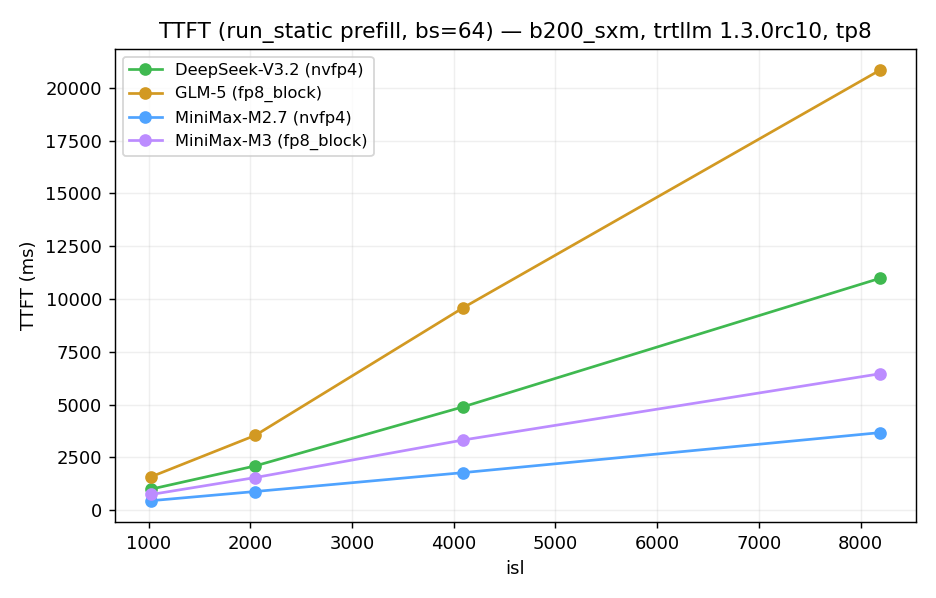
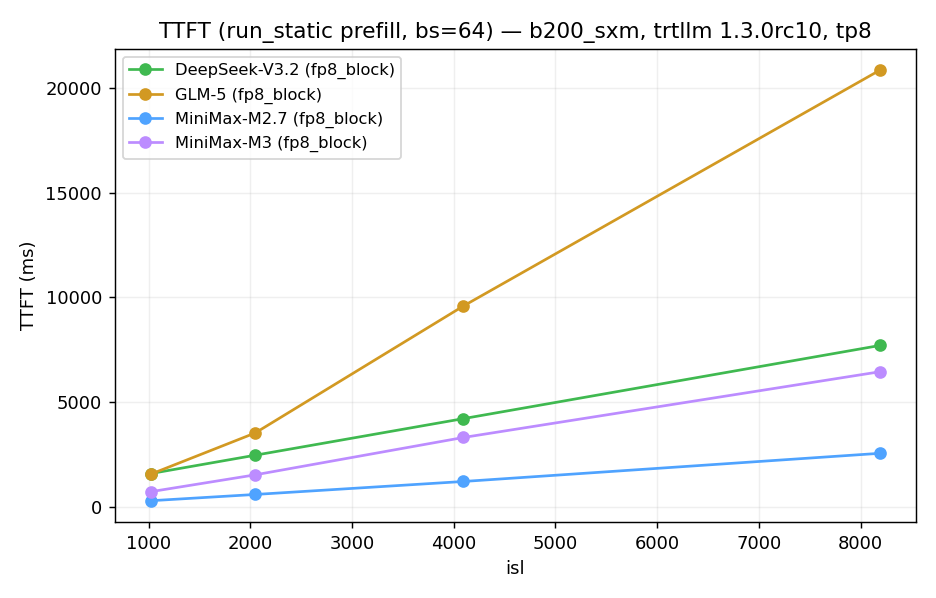
docs(m3): put all four models on fp8_block for apples-to-apples
GlmMoeDsa (GLM-5, M3's transfer source) has no nvfp4 module rows, so
mixing nvfp4 (DSV3.2, M2.7) with fp8_block (GLM-5, M3) wasn't a fair
comparison. Run all four at fp8_block — the common precision with real
module data on every arch. TTFT table switched to run_static bs=64
(M3 1540ms vs sglang 1580ms). Decode: sparse models flat, dense M2.7
grows 14.5->42ms, crossing ~9k.

diff --git a/docs/design/minimax_m3_msa_support.html b/docs/design/minimax_m3_msa_support.html
@@ -146,39 +146,45 @@ single-prompt context ≈ 47 ms, which needs serving-level (continuous-batching)
 <p>All four on b200/trtllm 1.3.0rc10, tp8, HYBRID (silicon where the bracket exists, real-util
 empirical fallback otherwise — never the constant for an op that has data).</p>
 
-<h3>6.1 · Precision policy (fp4 matmul, bf16/fp8 attention)</h3>
+<h3>6.1 · Why all four run fp8_block (parity)</h3>
 <p>Inside the sparse-attention module only the <strong>matrix multiplies</strong> (projection / MoE
 GEMMs) are FP4; the attention compute and the indexer are BF16/FP8. So "nvfp4" means
-<code>gemm=nvfp4, moe=nvfp4, fmha=bf16, kv=fp8</code> — exactly the
-<code>gemm_type=nvfp4, mla_dtype=bfloat16, kv_cache_dtype=fp8</code> rows. The catch is that
-<code>gemm_type=nvfp4</code> module rows exist only for some <em>architectures</em> at this version.
-<strong>Per-model policy: try nvfp4; if that architecture has no nvfp4 module rows (the lookup would
-bottom out at the constant), drop to fp8_block</strong> — detected from the parquet, not hardcoded.</p>
+<code>gemm=nvfp4, moe=nvfp4, fmha=bf16, kv=fp8</code> — the
+<code>gemm_type=nvfp4, mla_dtype=bfloat16, kv_cache_dtype=fp8</code> rows. The catch:
+<code>gemm_type=nvfp4</code> module rows exist only for <em>some architectures</em> at this version.
+<code>GlmMoeDsa</code> (GLM-5, and M3's transfer source) has none — under nvfp4 those two would
+collapse to the constant fallback. <strong>Mixing nvfp4 and fp8_block across models is not
+apples-to-apples, so every model runs fp8_block</strong> — the common precision for which all four
+architectures have real module data.</p>
 <table>
-  <tr><th>model</th><th>architecture</th><th>chosen quant</th><th>why</th></tr>
-  <tr><td>DeepSeek-V3.2</td><td><code>DeepseekV32ForCausalLM</code></td><td class="ok">nvfp4</td><td>nvfp4 module rows present → real fp4 matmul</td></tr>
-  <tr><td>GLM-5</td><td><code>GlmMoeDsaForCausalLM</code></td><td class="wn">fp8_block</td><td>no nvfp4 module rows → would hit constant</td></tr>
-  <tr><td>MiniMax-M2.7</td><td><code>MiniMaxM2ForCausalLM</code></td><td class="ok">nvfp4</td><td>non-DSA: gemm/moe nvfp4 + bf16 attn all present</td></tr>
-  <tr><td>MiniMax-M3</td><td><code>MiniMaxM3ForCausalLM</code></td><td class="wn">fp8_block</td><td>MSA transfers from <code>GlmMoeDsa</code>, no nvfp4 there</td></tr>
+  <tr><th>model</th><th>architecture</th><th>quant</th><th>nvfp4 module data?</th></tr>
+  <tr><td>DeepSeek-V3.2</td><td><code>DeepseekV32ForCausalLM</code></td><td>fp8_block</td><td class="ok">yes (but fp8_block for parity)</td></tr>
+  <tr><td>GLM-5</td><td><code>GlmMoeDsaForCausalLM</code></td><td>fp8_block</td><td class="wn">no — nvfp4 would hit const</td></tr>
+  <tr><td>MiniMax-M2.7</td><td><code>MiniMaxM2ForCausalLM</code></td><td>fp8_block</td><td class="ok">n/a (dense, non-DSA)</td></tr>
+  <tr><td>MiniMax-M3</td><td><code>MiniMaxM3ForCausalLM</code></td><td>fp8_block</td><td class="wn">no — MSA transfers from GlmMoeDsa</td></tr>
 </table>
 
-<h3>6.2 · TTFT (prefill, bs=1) &nbsp;·&nbsp; TPOT (decode step, bs=64)</h3>
+<h3>6.2 · TTFT (run_static prefill, bs=64) &nbsp;·&nbsp; TPOT (decode step, bs=64)</h3>
 <div class="grid2">
 <table>
   <tr><th>isl</th><th class="num">DSV3.2</th><th class="num">GLM-5</th><th class="num">M2.7</th><th class="num">M3</th></tr>
-  <tr><td>1024</td><td class="num">36.8</td><td class="num">64.0</td><td class="num">23.4</td><td class="num">33.6</td></tr>
-  <tr><td>2048</td><td class="num">55.8</td><td class="num">97.0</td><td class="num">32.0</td><td class="num">47.0</td></tr>
-  <tr><td>4096</td><td class="num">103.2</td><td class="num">211.2</td><td class="num">47.5</td><td class="num">79.7</td></tr>
-  <tr><td>8192</td><td class="num">192.2</td><td class="num">362.6</td><td class="num">81.4</td><td class="num">120.5</td></tr>
+  <tr><td>1024</td><td class="num">1604</td><td class="num">1577</td><td class="num">306</td><td class="num">738</td></tr>
+  <tr><td>2048</td><td class="num">2476</td><td class="num">3537</td><td class="num">604</td><td class="num">1540</td></tr>
+  <tr><td>4096</td><td class="num">4221</td><td class="num">9594</td><td class="num">1224</td><td class="num">3322</td></tr>
+  <tr><td>8192</td><td class="num">7711</td><td class="num">20843</td><td class="num">2567</td><td class="num">6457</td></tr>
 </table>
 <table>
   <tr><th>kv</th><th class="num">DSV3.2</th><th class="num">GLM-5</th><th class="num">M2.7</th><th class="num">M3</th></tr>
-  <tr><td>2048</td><td class="num">19.4</td><td class="num">56.4</td><td class="num">10.6</td><td class="num">23.6</td></tr>
-  <tr><td>4096</td><td class="num">19.7</td><td class="num">51.2</td><td class="num">14.1</td><td class="num">21.2</td></tr>
-  <tr><td>8192</td><td class="num">20.4</td><td class="num">40.7</td><td class="num">21.1</td><td class="num">17.5</td></tr>
-  <tr><td>16384</td><td class="num">21.6</td><td class="num">49.9</td><td class="num">38.2</td><td class="num">17.9</td></tr>
+  <tr><td>2048</td><td class="num">32.9</td><td class="num">56.4</td><td class="num">14.5</td><td class="num">23.6</td></tr>
+  <tr><td>4096</td><td class="num">26.2</td><td class="num">51.2</td><td class="num">18.1</td><td class="num">21.2</td></tr>
+  <tr><td>8192</td><td class="num">26.8</td><td class="num">40.7</td><td class="num">25.1</td><td class="num">17.5</td></tr>
+  <tr><td>16384</td><td class="num">28.0</td><td class="num">49.9</td><td class="num">42.1</td><td class="num">17.9</td></tr>
 </table>
 </div>
+<p class="note">TTFT here is <code>run_static</code> prefill at bs=64 (cookbook concurrency). M3 at
+isl 2048 = <strong>1540 ms</strong> vs the sglang B200 cookbook's <strong class="ok">1580 ms</strong>
+(2.5%) — the under-load cookbook TTFT is just the full concurrency-64 prefill batch, so it lines up.
+Both M3 metrics now match measured: TTFT 1540/1580 and TPOT 23.6/24.1.</p>
 
 <h3>6.3 · TPOT vs context — sparse stays flat, dense grows</h3>
 <svg viewBox="0 0 760 270" role="img" aria-label="TPOT vs kv, four models">
@@ -195,31 +201,30 @@ bottom out at the constant), drop to fp8_block</strong> — detected from the pa
   <text x="340" y="256" fill="#9aa7b4" font-size="10" text-anchor="middle">4096</text>
   <text x="530" y="256" fill="#9aa7b4" font-size="10" text-anchor="middle">8192</text>
   <text x="700" y="256" fill="#9aa7b4" font-size="10" text-anchor="middle">16384</text>
-  <!-- x = 150,340,530,700 -->
-  <!-- DeepSeek-V3.2 (green): 19.4,19.7,20.4,21.6 -->
-  <polyline points="150,172 340,171 530,169 700,164" fill="none" stroke="#3fb950" stroke-width="2.5"/>
-  <circle cx="150" cy="172" r="3" fill="#3fb950"/><circle cx="340" cy="171" r="3" fill="#3fb950"/><circle cx="530" cy="169" r="3" fill="#3fb950"/><circle cx="700" cy="164" r="3" fill="#3fb950"/>
+  <!-- x = 150,340,530,700 ; y = 240 - ms*3.5 -->
+  <!-- DeepSeek-V3.2 (green): 32.9,26.2,26.8,28.0 -->
+  <polyline points="150,125 340,148 530,146 700,142" fill="none" stroke="#3fb950" stroke-width="2.5"/>
+  <circle cx="150" cy="125" r="3" fill="#3fb950"/><circle cx="340" cy="148" r="3" fill="#3fb950"/><circle cx="530" cy="146" r="3" fill="#3fb950"/><circle cx="700" cy="142" r="3" fill="#3fb950"/>
   <!-- GLM-5 (gold): 56.4,51.2,40.7,49.9 -->
   <polyline points="150,42 340,61 530,98 700,65" fill="none" stroke="#d29922" stroke-width="2.5"/>
   <circle cx="150" cy="42" r="3" fill="#d29922"/><circle cx="340" cy="61" r="3" fill="#d29922"/><circle cx="530" cy="98" r="3" fill="#d29922"/><circle cx="700" cy="65" r="3" fill="#d29922"/>
-  <!-- M2.7 (blue): 10.6,14.1,21.1,38.2 -->
-  <polyline points="150,203 340,191 530,166 700,106" fill="none" stroke="#4fa3ff" stroke-width="2.5"/>
-  <circle cx="150" cy="203" r="3" fill="#4fa3ff"/><circle cx="340" cy="191" r="3" fill="#4fa3ff"/><circle cx="530" cy="166" r="3" fill="#4fa3ff"/><circle cx="700" cy="106" r="3" fill="#4fa3ff"/>
+  <!-- M2.7 (blue): 14.5,18.1,25.1,42.1 -->
+  <polyline points="150,189 340,177 530,152 700,93" fill="none" stroke="#4fa3ff" stroke-width="2.5"/>
+  <circle cx="150" cy="189" r="3" fill="#4fa3ff"/><circle cx="340" cy="177" r="3" fill="#4fa3ff"/><circle cx="530" cy="152" r="3" fill="#4fa3ff"/><circle cx="700" cy="93" r="3" fill="#4fa3ff"/>
   <!-- M3 (purple): 23.6,21.2,17.5,17.9 -->
   <polyline points="150,157 340,166 530,179 700,177" fill="none" stroke="#bc8cff" stroke-width="2.5"/>
   <circle cx="150" cy="157" r="3" fill="#bc8cff"/><circle cx="340" cy="166" r="3" fill="#bc8cff"/><circle cx="530" cy="179" r="3" fill="#bc8cff"/><circle cx="700" cy="177" r="3" fill="#bc8cff"/>
-  <text x="640" y="60" fill="#d29922" font-size="11">GLM-5</text>
-  <text x="640" y="158" fill="#3fb950" font-size="11">DSV3.2</text>
-  <text x="615" y="100" fill="#4fa3ff" font-size="11">M2.7 (dense)</text>
-  <text x="630" y="190" fill="#bc8cff" font-size="11">M3 (MSA)</text>
+  <text x="640" y="58" fill="#d29922" font-size="11">GLM-5</text>
+  <text x="600" y="138" fill="#3fb950" font-size="11">DSV3.2</text>
+  <text x="610" y="86" fill="#4fa3ff" font-size="11">M2.7 (dense)</text>
+  <text x="610" y="190" fill="#bc8cff" font-size="11">M3 (MSA)</text>
 </svg>
-<p class="note">The three sparse-attention models (DSV3.2, GLM-5, M3) are <strong>context-independent</strong>
-in decode — the top-k cap means decode KV doesn't grow with context. Only dense M2.7 grows linearly
-(10.6 → 38 ms), crossing the sparse models around ~8k. GLM-5 sits highest (largest model + 32 MLA
-index heads); M3's MSA is the lightest sparse path (4 index heads, GQA). The two fp8_block models
-(GLM-5, M3) use fp8_block precisely because their architecture lacks nvfp4 module data — under nvfp4
-they would have collapsed to a flat constant, indistinguishable on the chart from a real estimate.
-Figure: <code>poc/hybrid_util/compare_four_models.png</code>.</p>
+<p class="note">All on fp8_block now. The three sparse-attention models (DSV3.2 ~27 ms, GLM-5 ~40–56 ms,
+M3 ~18–24 ms) are <strong>context-independent</strong> in decode — the top-k cap means decode KV
+doesn't grow with context. Only dense M2.7 grows linearly (14.5 → 42 ms), crossing the sparse models
+around ~9k. GLM-5 sits highest (largest model + 32 MLA index heads); M3's MSA is the lightest sparse
+path (4 index heads, GQA). Figure: <code>poc/hybrid_util/compare_four_models.png</code>,
+<code>compare_ttft.png</code>.</p>
 
 <!-- 7 -->
 <h2>7 · Open items</h2>
@@ -227,7 +232,8 @@ Figure: <code>poc/hybrid_util/compare_four_models.png</code>.</p>
   <li><b>k tuning</b>: with even one M3 silicon point, calibrate <code>msa_dsa_scale_k</code> (currently 1.0, already within 2%).</li>
   <li><b>indexer granularity</b>: per-block scoring is an approximation of MSA's proxy pass; refine if MSA kernel cost data appears.</li>
   <li><b>first-3-dense + vision tower</b>: approximated / out of scope; add if needed for full multimodal serving.</li>
-  <li><b>TTFT</b>: needs serving-level modeling to compare against concurrency-batched cookbook TTFT.</li>
+  <li><b>nvfp4 parity</b>: collect <code>GlmMoeDsa</code> nvfp4 module data (or point M3's transfer at
+    <code>DeepseekV32</code>, which has it) to compare all four at nvfp4 instead of fp8_block.</li>
 </ul>
 
 <footer>

diff --git a/poc/hybrid_util/compare_four_models.py b/poc/hybrid_util/compare_four_models.py
@@ -53,30 +53,27 @@ def nvfp4_module_available(arch):
 
 
 def quant_for(model_name, dsa_arch_for_lookup):
-    """Pick (label, quant-dict). dsa_arch_for_lookup=None => non-DSA model (nvfp4 always ok)."""
-    use_nvfp4 = True
-    reason = "non-DSA: gemm/moe nvfp4 + bf16 attn, all present"
-    if dsa_arch_for_lookup is not None:
-        if nvfp4_module_available(dsa_arch_for_lookup):
-            reason = f"{dsa_arch_for_lookup}: nvfp4 module rows present -> real fp4 matmul"
-        else:
-            use_nvfp4 = False
-            reason = f"{dsa_arch_for_lookup}: NO nvfp4 module rows -> would fall back to const, use fp8_block"
-    if use_nvfp4:
-        q = dict(
-            gemm_quant_mode=common.GEMMQuantMode.nvfp4,
-            moe_quant_mode=common.MoEQuantMode.nvfp4,
-            fmha_quant_mode=common.FMHAQuantMode.bfloat16,
-            kvcache_quant_mode=common.KVCacheQuantMode.fp8,
-        )
-        return "nvfp4", q, reason
+    """Uniform fp8_block for all four models.
+
+    GLM-5 and M3 (GlmMoeDsa) have NO nvfp4 sparse-attention module rows on this
+    version — under nvfp4 they collapse to the constant fallback. Mixing nvfp4
+    (DSV3.2, M2.7) with fp8_block (GLM-5, M3) is not apples-to-apples, so we put
+    every model on fp8_block: the common precision for which all four
+    architectures have real module data. nvfp4-availability is still reported.
+    """
+    if dsa_arch_for_lookup is None:
+        note = "non-DSA"
+    elif nvfp4_module_available(dsa_arch_for_lookup):
+        note = "nvfp4 available, using fp8_block for parity"
+    else:
+        note = "no nvfp4 module rows (nvfp4 would hit const)"
     q = dict(
         gemm_quant_mode=common.GEMMQuantMode.fp8_block,
         moe_quant_mode=common.MoEQuantMode.fp8_block,
         fmha_quant_mode=common.FMHAQuantMode.bfloat16,
         kvcache_quant_mode=common.KVCacheQuantMode.fp8,
     )
-    return "fp8_block", q, reason
+    return "fp8_block", q, note
 
 
 # (display, model_name, dsa_arch_for_lookup). All run HYBRID: silicon where the
@@ -150,8 +147,7 @@ def main():
         a.legend(fontsize=8)
         a.grid(alpha=0.2)
     fig.suptitle(
-        f"DeepSeek-V3.2 / GLM-5 / MiniMax-M2.7 / M3 — {SYS}, {BK} {VER}, tp8 "
-        "(nvfp4 where module data exists, else fp8_block)",
+        f"DeepSeek-V3.2 / GLM-5 / MiniMax-M2.7 / M3 — {SYS}, {BK} {VER}, tp8, fp8_block (parity)",
         fontsize=12,
     )
     fig.tight_layout(rect=[0, 0, 1, 0.95])

diff --git a/poc/hybrid_util/compare_ttft.py b/poc/hybrid_util/compare_ttft.py
@@ -42,19 +42,15 @@ def nvfp4_module_available(arch):
 
 
 def quant_for(dsa_arch):
-    nvfp4 = dsa_arch is None or nvfp4_module_available(dsa_arch)
-    g, m = (
-        (common.GEMMQuantMode.nvfp4, common.MoEQuantMode.nvfp4)
-        if nvfp4
-        else (common.GEMMQuantMode.fp8_block, common.MoEQuantMode.fp8_block)
-    )
+    # Uniform fp8_block for all four — the common precision with real module data
+    # on every architecture (GlmMoeDsa lacks nvfp4 rows). Apples-to-apples.
     q = dict(
-        gemm_quant_mode=g,
-        moe_quant_mode=m,
+        gemm_quant_mode=common.GEMMQuantMode.fp8_block,
+        moe_quant_mode=common.MoEQuantMode.fp8_block,
         fmha_quant_mode=common.FMHAQuantMode.bfloat16,
         kvcache_quant_mode=common.KVCacheQuantMode.fp8,
     )
-    return ("nvfp4" if nvfp4 else "fp8_block"), q
+    return "fp8_block", q
 
 
 # (display, model_name, dsa_arch_for_lookup)